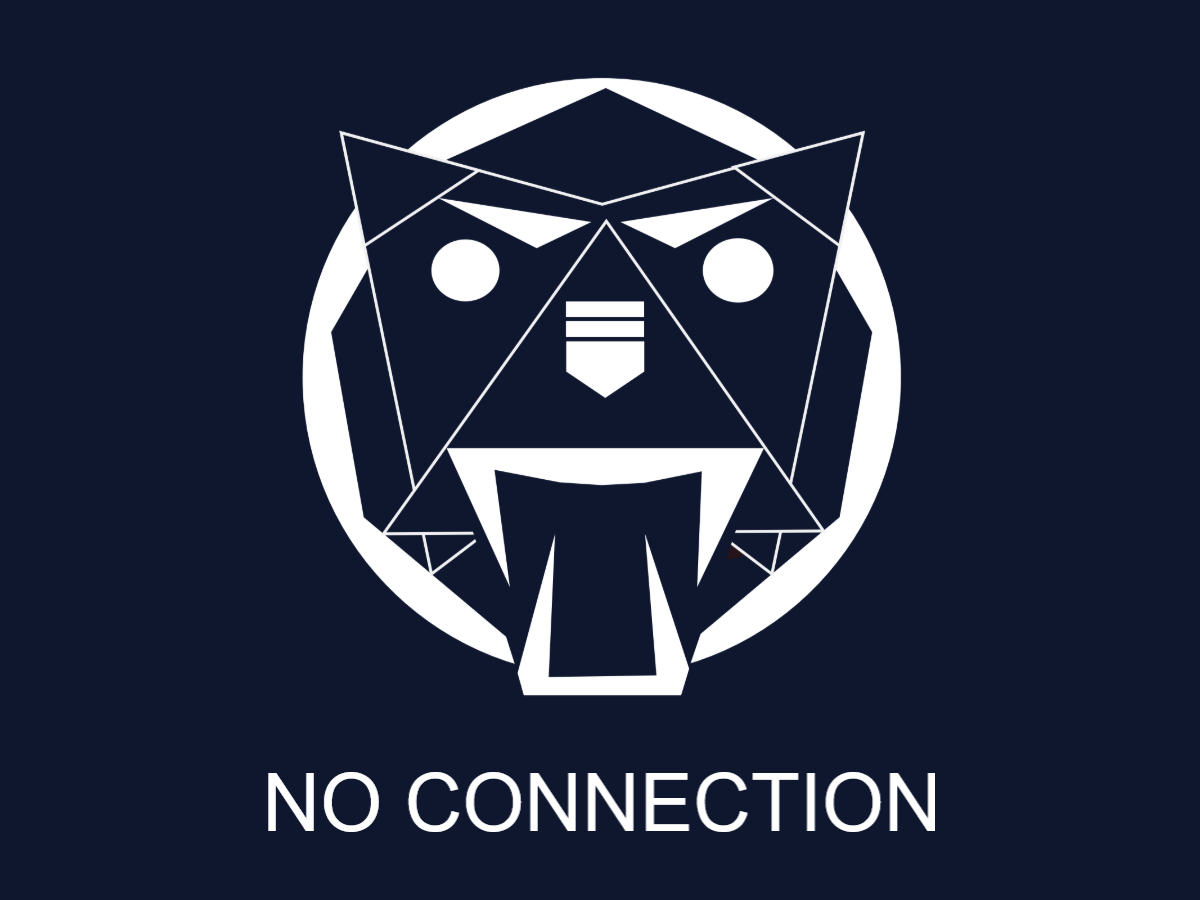
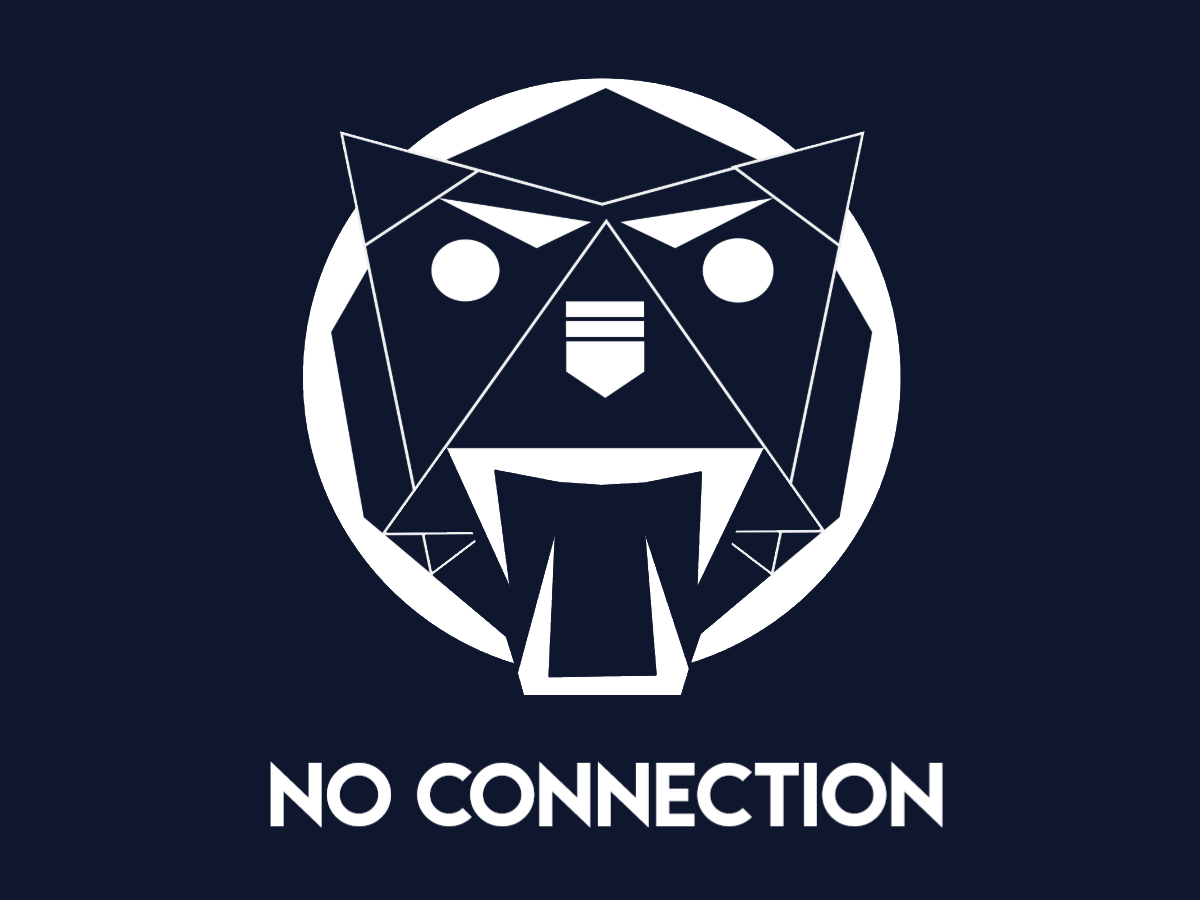
Change GoArctos font back

Changed region(s): [[0.2158, 0.84, 0.8017, 0.9333]]

diff --git a/src/main/java/edu/wpi/first/smartdashboard/gui/elements/GoArctos.java b/src/main/java/edu/wpi/first/smartdashboard/gui/elements/GoArctos.java
@@ -14,10 +14,21 @@ public class GoArctos extends Label {
         super();
     }
 
+    public static Font lemonMilk;
+    static {
+        try {
+            lemonMilk = Font.createFont(Font.TRUETYPE_FONT, ClassLoader.getSystemClassLoader().getResourceAsStream("lemon_milk/LemonMilkbold.ttf"))
+                    .deriveFont(30.0f);
+        }
+        catch(Exception e) {
+            lemonMilk = new Font("Comic Sans MS", Font.BOLD, 12);
+        }
+    }
+
     @Override
     public void init() {
         super.init();
-        label.setFont(label.getFont().deriveFont(30.0f));
+        label.setFont(lemonMilk);
         text.setValue("GO ARCTOS");
         propertyChanged(text);
     }

diff --git a/src/main/java/edu/wpi/first/smartdashboard/gui/elements/ConfigurableMjpgStreamViewer.java b/src/main/java/edu/wpi/first/smartdashboard/gui/elements/ConfigurableMjpgStreamViewer.java
@@ -19,7 +19,7 @@ public class ConfigurableMjpgStreamViewer extends MjpgStreamViewerImpl {
   public static BufferedImage noConnectionImage;
   static {
     try {
-      var imgStream = ClassLoader.getSystemClassLoader().getResourceAsStream("arctos3.PNG");
+      var imgStream = ClassLoader.getSystemClassLoader().getResourceAsStream("arctos4.PNG");
       noConnectionImage = ImageIO.read(imgStream);
     }
     catch(Exception e) {
